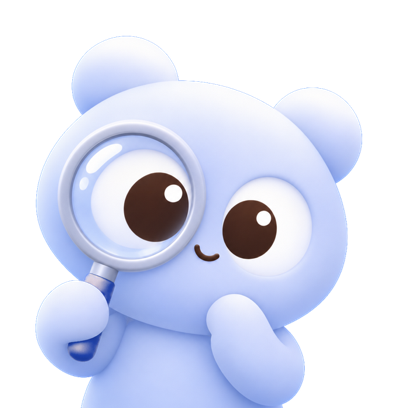
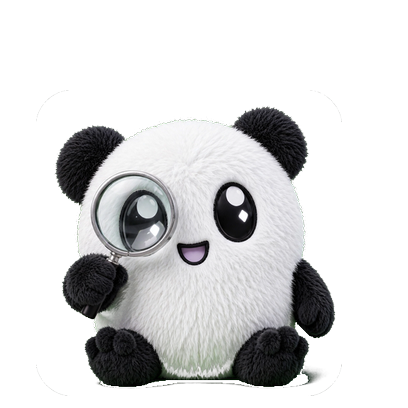
Replace Live Activity Poki bear images with Qeno panda
All 9 ActivityBear poses (ready, thinking, phone, checking, done,
needs, paused, tripped, turn) are now Qeno's own panda character,
generated fresh, not derived from the Poki bear. Each is 408x408
RGBA with a transparent background and its head center aligned to
the per-pose target in ActivityBear (ActivityFace.swift), so the
Live Activity geometry stays unchanged.

README updated: the Poki-bear license restriction no longer applies
to these files. Original bear PNGs are backed up outside the repo.

diff --git a/native/ios-app/Poki/ActivityBears/README.md b/native/ios-app/Poki/ActivityBears/README.md
@@ -1,18 +1,19 @@
-# The Live Activity's bears
+# The Live Activity's panda
 
 One picture per pose, on a clear ground, 408 pixels square (136 points at 3x, the largest the Live
-Activity draws). They are the ESP-344 design's own cut-outs (`bears-clean`, made from ESP-319's
-renders with the corner badges removed), scaled down with `sips -Z 408`. `scripts/make-assets.sh` puts them
-into the app's and the widget extension's asset catalogues. When the 3D model's own clear renders exist (ESP-319), replace these files and
-keep the names; where the head sits in each picture is in `ActivityBear` (ActivityFace.swift).
+Activity draws). They are Qeno's own character: a single round white panda ball, head and torso the same
+part, small black ears, stubby black arms and feet, big dark eyes, no blush, no lettering. Each pose was
+generated fresh for Qeno and is not derived from any other character. `scripts/make-assets.sh` puts them
+into the app's and the widget extension's asset catalogues. Where the head sits in each picture is in
+`ActivityBear` (ActivityFace.swift); the head centers were aligned to those per-pose targets, so the
+geometry in ActivityFace.swift stays unchanged.
 
-`ActivityBear-turn` (and `PokiBear-your-turn`, `PokiBearSmall-your-turn` and `PokiBearCutSmall-your-turn` in
-`Bear/`) is the one pose edited after the renders: its paws are larger and reach up to the brow, so they cover
-the whole eye sockets and no white rim shows round them. The edit was made once on the 1024-pixel render and
-every size was exported from it, each keeping its own outline, ground and transparency.
+`ActivityBear-turn` is the one pose where the paws cover the whole eye sockets and no white rim shows
+round them.
 
-## License
+## History
 
-The pictures in this folder are the Poki bear, Poki's own character and its main brand asset. They are not covered by the AGPL-3.0-only license that applies to Poki's code. You can build and run Poki with them unchanged; any other use, including new versions of the bear made from them, needs written permission. See [BRAND.md](../../../../BRAND.md).
-
-Copyright (c) 2026 Joseph Zhou (周瑟夫). All rights reserved, to the extent the law protects these works.
+These files replaced the Poki bear pictures on 2026-11-14. The Poki bear was Poki's own character and
+main brand asset, not covered by the AGPL-3.0-only license that applies to Poki's code; the Qeno panda
+images in this folder are original Qeno artwork, so that restriction does not apply to them. The original
+bear files are kept outside the repo as a backup.
